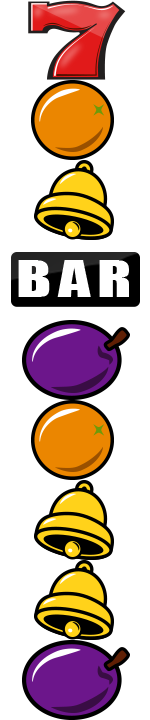
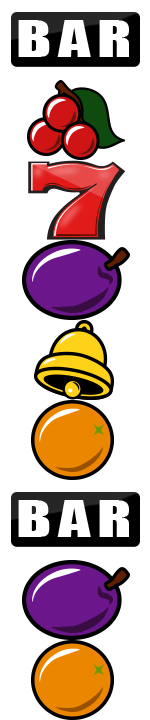
約判定ほぼ完成

diff --git a/SlotGameTest/GameScene.cpp b/SlotGameTest/GameScene.cpp
@@ -89,12 +89,12 @@ void GameScene:: ReelControll(int a) {
 		case 1://7
 			Print << U"1";
 			if (Stopflag[0] == true) {//ストップボタンが押されたら
-				Reel_Tex[0].draw(Reel_NowPos[0].x, ReelPos[0]);
-				Reel_Tex[1].draw(Reel_NowPos[1].x, ReelPos[0] + 720);
+				Reel_Tex[0].draw(Reel_NowPos[0].x, ReelPos[3]);
+				Reel_Tex[1].draw(Reel_NowPos[1].x, ReelPos[3] + 720);
 			}
 			if (Stopflag[1] == true) {//ストップボタンが押されたら
-				Reel_Tex[2].draw(Reel_NowPos[2].x, ReelPos[1]);
-				Reel_Tex[3].draw(Reel_NowPos[3].x, ReelPos[1] + 720);
+				Reel_Tex[2].draw(Reel_NowPos[2].x, ReelPos[5]);
+				Reel_Tex[3].draw(Reel_NowPos[3].x, ReelPos[5] + 720);
 			}
 			if (Stopflag[2] == true) {//ストップボタンが押されたら
 				Reel_Tex[4].draw(Reel_NowPos[4].x, ReelPos[3]);
@@ -105,8 +105,8 @@ void GameScene:: ReelControll(int a) {
 		case 2://チェリー
 			Print << U"2";
 			if (Stopflag[0] == true) {//ストップボタンが押されたら
-				Reel_Tex[0].draw(Reel_NowPos[0].x, ReelPos[0]);
-				Reel_Tex[1].draw(Reel_NowPos[1].x, ReelPos[0] + 720);
+				Reel_Tex[0].draw(Reel_NowPos[0].x, ReelPos[2]);
+				Reel_Tex[1].draw(Reel_NowPos[1].x, ReelPos[2] + 720);
 			}
 			if (Stopflag[1] == true) {//ストップボタンが押されたら
 				Reel_Tex[2].draw(Reel_NowPos[2].x, ReelPos[1]);
@@ -121,64 +121,64 @@ void GameScene:: ReelControll(int a) {
 		case 3://プルーン
 			Print << U"3";
 			if (Stopflag[0] == true) {//ストップボタンが押されたら
-				Reel_Tex[0].draw(Reel_NowPos[0].x, ReelPos[0]);
-				Reel_Tex[1].draw(Reel_NowPos[1].x, ReelPos[0] + 720);
+				Reel_Tex[0].draw(Reel_NowPos[0].x, ReelPos[4]);
+				Reel_Tex[1].draw(Reel_NowPos[1].x, ReelPos[4] + 720);
 			}
 			if (Stopflag[1] == true) {//ストップボタンが押されたら
-				Reel_Tex[2].draw(Reel_NowPos[2].x, ReelPos[1]);
-				Reel_Tex[3].draw(Reel_NowPos[3].x, ReelPos[1] + 720);
+				Reel_Tex[2].draw(Reel_NowPos[2].x, ReelPos[4]);
+				Reel_Tex[3].draw(Reel_NowPos[3].x, ReelPos[4] + 720);
 			}
 			if (Stopflag[2] == true) {//ストップボタンが押されたら
-				Reel_Tex[4].draw(Reel_NowPos[4].x, ReelPos[3]);
-				Reel_Tex[5].draw(Reel_NowPos[5].x, ReelPos[3] + 720);
+				Reel_Tex[4].draw(Reel_NowPos[4].x, ReelPos[5]);
+				Reel_Tex[5].draw(Reel_NowPos[5].x, ReelPos[5] + 720);
 			}
 			break;
 
 		case 4://オレンジ
 			Print << U"4";
 			if (Stopflag[0] == true) {//ストップボタンが押されたら
-				Reel_Tex[0].draw(Reel_NowPos[0].x, ReelPos[0]);
-				Reel_Tex[1].draw(Reel_NowPos[1].x, ReelPos[0] + 720);
+				Reel_Tex[0].draw(Reel_NowPos[0].x, ReelPos[1]);
+				Reel_Tex[1].draw(Reel_NowPos[1].x, ReelPos[1] + 720);
 			}
 			if (Stopflag[1] == true) {//ストップボタンが押されたら
-				Reel_Tex[2].draw(Reel_NowPos[2].x, ReelPos[1]);
-				Reel_Tex[3].draw(Reel_NowPos[3].x, ReelPos[1] + 720);
+				Reel_Tex[2].draw(Reel_NowPos[2].x, ReelPos[2]);
+				Reel_Tex[3].draw(Reel_NowPos[3].x, ReelPos[2] + 720);
 			}
 			if (Stopflag[2] == true) {//ストップボタンが押されたら
-				Reel_Tex[4].draw(Reel_NowPos[4].x, ReelPos[3]);
-				Reel_Tex[5].draw(Reel_NowPos[5].x, ReelPos[3] + 720);
+				Reel_Tex[4].draw(Reel_NowPos[4].x, ReelPos[2]);
+				Reel_Tex[5].draw(Reel_NowPos[5].x, ReelPos[2] + 720);
 			}
 			break;
 
 		case 5://ベル
 			Print << U"5";
 			if (Stopflag[0] == true) {//ストップボタンが押されたら
-				Reel_Tex[0].draw(Reel_NowPos[0].x, ReelPos[0]);
-				Reel_Tex[1].draw(Reel_NowPos[1].x, ReelPos[0] + 720);
+				Reel_Tex[0].draw(Reel_NowPos[0].x, ReelPos[6]);
+				Reel_Tex[1].draw(Reel_NowPos[1].x, ReelPos[6] + 720);
 			}
 			if (Stopflag[1] == true) {//ストップボタンが押されたら
-				Reel_Tex[2].draw(Reel_NowPos[2].x, ReelPos[1]);
-				Reel_Tex[3].draw(Reel_NowPos[3].x, ReelPos[1] + 720);
+				Reel_Tex[2].draw(Reel_NowPos[2].x, ReelPos[3]);
+				Reel_Tex[3].draw(Reel_NowPos[3].x, ReelPos[3] + 720);
 			}
 			if (Stopflag[2] == true) {//ストップボタンが押されたら
-				Reel_Tex[4].draw(Reel_NowPos[4].x, ReelPos[3]);
-				Reel_Tex[5].draw(Reel_NowPos[5].x, ReelPos[3] + 720);
+				Reel_Tex[4].draw(Reel_NowPos[4].x, ReelPos[1]);
+				Reel_Tex[5].draw(Reel_NowPos[5].x, ReelPos[1] + 720);
 			}
 			break;
 
 		case 6://バー
 			Print << U"6";
 			if (Stopflag[0] == true) {//ストップボタンが押されたら
-				Reel_Tex[0].draw(Reel_NowPos[0].x, ReelPos[0]);
-				Reel_Tex[1].draw(Reel_NowPos[1].x, ReelPos[0] + 720);
+				Reel_Tex[0].draw(Reel_NowPos[0].x, ReelPos[6]);
+				Reel_Tex[1].draw(Reel_NowPos[1].x, ReelPos[6] + 720);
 			}
 			if (Stopflag[1] == true) {//ストップボタンが押されたら
 				Reel_Tex[2].draw(Reel_NowPos[2].x, ReelPos[1]);
 				Reel_Tex[3].draw(Reel_NowPos[3].x, ReelPos[1] + 720);
 			}
 			if (Stopflag[2] == true) {//ストップボタンが押されたら
-				Reel_Tex[4].draw(Reel_NowPos[4].x, ReelPos[3]);
-				Reel_Tex[5].draw(Reel_NowPos[5].x, ReelPos[3] + 720);
+				Reel_Tex[4].draw(Reel_NowPos[4].x, ReelPos[5]);
+				Reel_Tex[5].draw(Reel_NowPos[5].x, ReelPos[5] + 720);
 			}
 			break;
 
